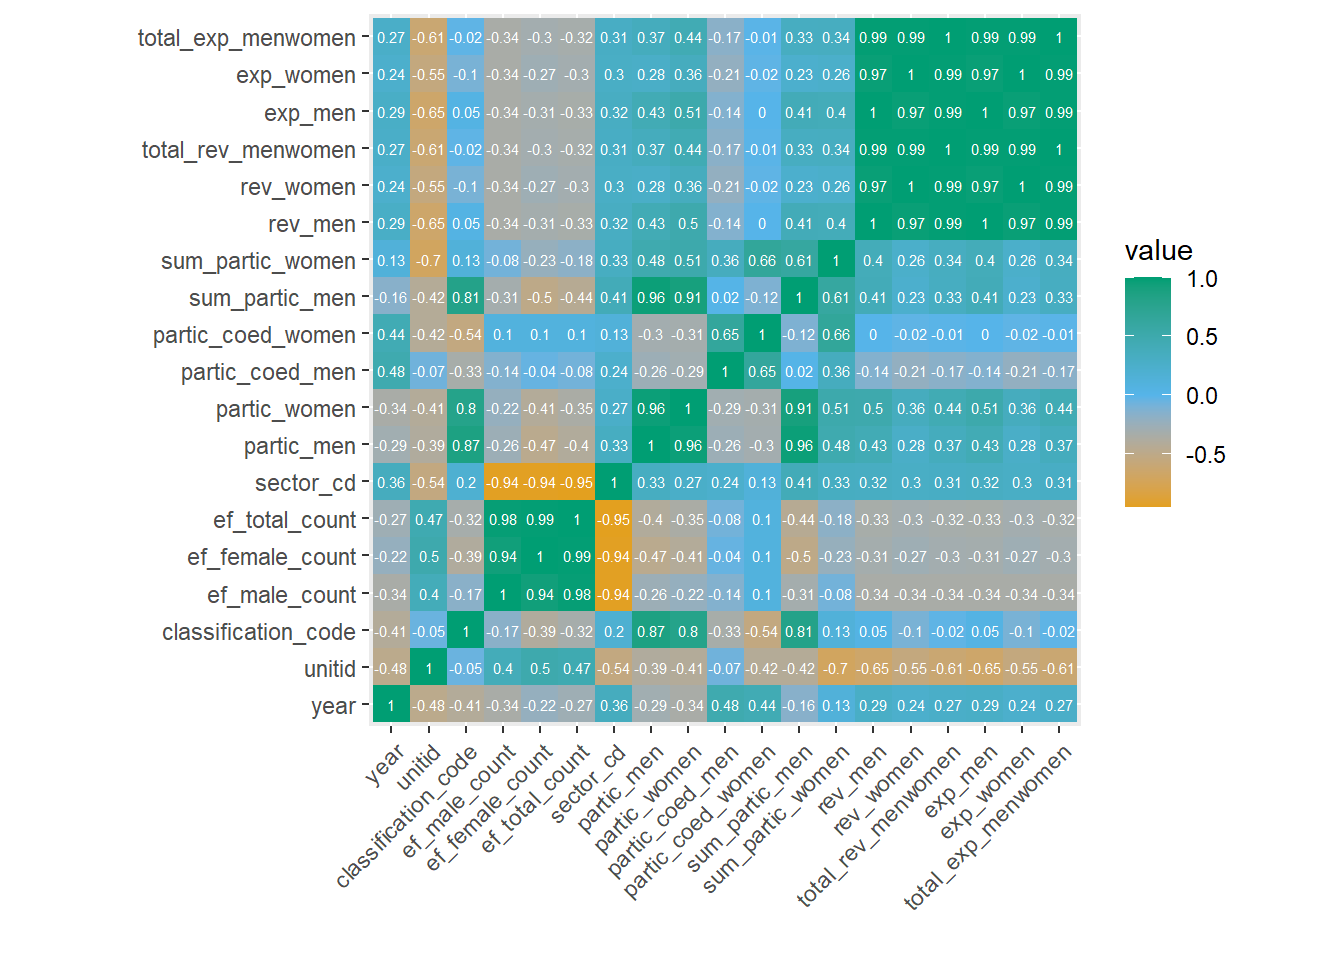
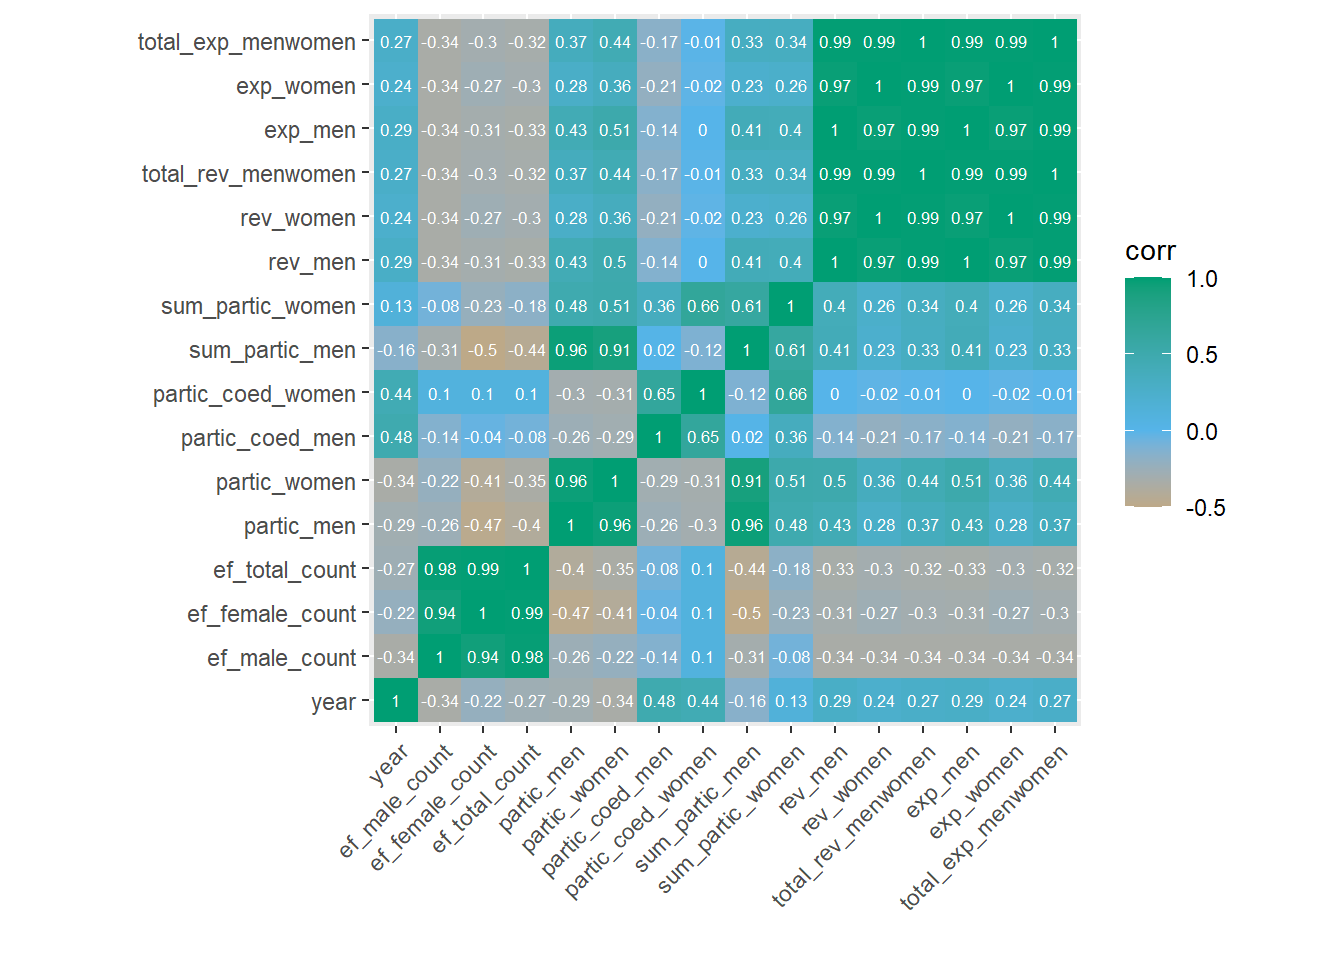
pca post

diff --git a/content/post/2022-03-30-principal-components-analysis-collegiate-sports/index.html b/content/post/2022-03-30-principal-components-analysis-collegiate-sports/index.html
@@ -1,5 +1,5 @@
 ---
-title: 'Principal Components Analysis in R: Collegiate Sports'
+title: 'Principal Components Analysis in R: College Sports'
 author: Noelle Pablo
 date: '2022-03-30'
 slug: principal-components-analysis-collegiate-sports
@@ -8,20 +8,21 @@ tags:
   - pca
   - dimension reduction
   - principal components analysis
-  - collegiate sports
+  - college sports
 ---
 
 <script src="{{< blogdown/postref >}}index_files/header-attrs/header-attrs.js"></script>
 
 
-<p>testing 1 2 3</p>
+<p>Last fall, I took a multivariate statistics course at the University of Kansas as part of the Applied Statistics, Analytics, and Data Science graduate program. One of the topics covered in the course was principal components analysis (PCA). PCA is commonly used when 1. there are a large number of numerical variables in a data set, and 2. the variables are strongly correlated with each other. After conducting a PCA, the correlated variables can be replaced by a smaller number of uncorrelated variables, known as the principal components. Each principal component is a linear combination of the original variables that represents most of the information, or variability, found in the original variables.</p>
+<p>For this demonstration, I am using a data set on college sports provided by the <a href="https://github.com/rfordatascience/tidytuesday/blob/master/data/2022/2022-03-29/readme.md">TidyTuesday data project</a>. This data set contains several variables on athletic participation, staffing, and finances by college, sport, and team gender. Since the numeric variables are on different scales, e.g., <code>rev_women</code> is in dollars, while <code>partic_women</code> is counts of women, they will inevitably have different variances. To account for the different variances, we will perform a PCA on the correlation matrix which uses the standardized data, as opposed to the covariance matrix which uses the non-standardized data.</p>
+<p>Let’s create a correlation heatmap using ggplot2 to visualize the correlations between the numerical variables. Figure 1 displays the Pearson correlation coefficient between all numerical variables in the college sports data set in a heatmap.</p>
 <pre class="r"><code>tuesdata &lt;-
-  tidytuesdayR::tt_load(&#39;2022-03-29&#39;)</code></pre>
-<pre><code>## 
-##  Downloading file 1 of 1: `sports.csv`</code></pre>
-<pre class="r"><code>sports &lt;- tuesdata$sports %&gt;%
+  tidytuesdayR::tt_load(&#39;2022-03-29&#39;)
+
+sports &lt;- tuesdata$sports %&gt;%
   select_if(is.numeric) %&gt;%
-  select(-sportscode)
+  select(-c(contains(&quot;code&quot;), unitid, sector_cd))
 
 sports_corr &lt;- round(cor(sports, use = &quot;complete.obs&quot;), 2) %&gt;%
   reshape2::melt()
@@ -29,12 +30,72 @@ sports_corr &lt;- round(cor(sports, use = &quot;complete.obs&quot;), 2) %&gt;%
 sports_corr %&gt;%
   ggplot(aes(Var1, Var2, fill = value)) +
   geom_tile() +
-  geom_text(aes(label = value), color = &quot;white&quot;, size = 2) +
+  geom_text(aes(label = value), color = &quot;white&quot;, size = 2.2) +
   coord_fixed() +
   scale_fill_gradient2(low = &quot;#E69F00&quot;,
                        mid = &quot;#56B4E9&quot;,
                        high = &quot;#009E73&quot;) +
   theme(axis.text.x = element_text(angle = 45,
                                    hjust = 1)) +
-  labs(x = &quot;&quot;, y = &quot;&quot;)</code></pre>
-<p><img src="{{< blogdown/postref >}}index_files/figure-html/unnamed-chunk-2-1.png" width="672" /></p>
+  labs(x = &quot;&quot;, y = &quot;&quot;,
+       fill = &quot;corr&quot;)</code></pre>
+<div class="figure"><span style="display:block;" id="fig:unnamed-chunk-2"></span>
+<img src="{{< blogdown/postref >}}index_files/figure-html/unnamed-chunk-2-1.png" alt="College sports data correlation heatmap" width="672" />
+<p class="caption">
+Figure 1: College sports data correlation heatmap
+</p>
+</div>
+<p>From the heatmap, we can see strong linear correlations between several variables, such as: total number of female students (<code>ef_female_count</code>) and total number of male students (<code>ef_male_count)</code> (r = 0.94), number of women participants (<code>partic_women</code>) and number of male participants (<code>partic_male</code>) (r = 0.96), and revenue in USD for men (<code>rev_men</code>) and revenue in USD for women (<code>rev_women</code>) (r = 0.97). Pairs of variables with a correlation of nearly 1 are those that are used to calculate each other, for example, <code>total_rev_menwomen</code> is the sum of <code>rev_men</code> and <code>rev_women</code>. Let’s remove these redundant variables, remake our correlation matrix, and proceed to the next step.</p>
+<pre class="r"><code>sports_data &lt;- 
+  sports %&gt;%
+  select(-contains(&quot;total&quot;), -contains(&quot;sum&quot;))
+
+sports_data_corr &lt;- round(cor(sports_data, use = &quot;complete.obs&quot;), 2) %&gt;%
+  reshape2::melt()</code></pre>
+<p>We can use the <code>prcomp()</code> function with the <code>scale.</code> argument set to <code>TRUE</code> to run our PCA on the normalized data. We can also use the <code>na.omit()</code> function to remove missing values. Due to the large amount of missing values in this data set, we are left with 16 complete observations.</p>
+<p>The first four principal components account for 93.5% of the total variability in the original variables, in other words, we can explain most of the variability in the data using four principal components, rather than the original 13 variables.</p>
+<pre class="r"><code>sports_pc &lt;- prcomp(na.omit(sports_data), scale. = TRUE)
+summary(sports_pc)</code></pre>
+<pre><code>## Importance of components:
+##                           PC1    PC2    PC3     PC4     PC5    PC6     PC7
+## Standard deviation     2.2227 1.5959 1.3281 1.01933 0.60966 0.5410 0.17617
+## Proportion of Variance 0.4491 0.2315 0.1603 0.09446 0.03379 0.0266 0.00282
+## Cumulative Proportion  0.4491 0.6806 0.8410 0.93544 0.96923 0.9958 0.99865
+##                            PC8     PC9    PC10      PC11
+## Standard deviation     0.11813 0.02903 0.00206 0.0007071
+## Proportion of Variance 0.00127 0.00008 0.00000 0.0000000
+## Cumulative Proportion  0.99992 1.00000 1.00000 1.0000000</code></pre>
+<p>As a reminder, the principal components are linear combinations of the original variables that aim to contain most of the information and variability present in the original variables. The <code>prcomp()</code> function also saves the weights given to each variable within each component in the <code>rotation</code> element of the <code>prcomp()</code> output. We can see that the largest positive weights in the first principal component are for the revenue and expenditure variables. In the second principal component, the largest negative weight is for year, followed by the coed participation variables. These weights are then used to calculate principal component scores.</p>
+<pre class="r"><code>sports_pc$rotation[, 1:4]</code></pre>
+<pre><code>##                           PC1         PC2         PC3         PC4
+## year               0.08046550 -0.52461564  0.09271418 -0.12001052
+## ef_male_count     -0.24314197  0.13690902 -0.54595277  0.32460550
+## ef_female_count   -0.25016590  0.02608413 -0.59768741  0.15966536
+## partic_men         0.27528119  0.34598572  0.22519978  0.43011892
+## partic_women       0.29553703  0.35072278  0.14609532  0.43437032
+## partic_coed_men   -0.10270443 -0.44259190  0.24378571  0.42958896
+## partic_coed_women -0.06919406 -0.46034026 -0.02641298  0.51493408
+## rev_men            0.42553268 -0.10892997 -0.19470486  0.05995430
+## rev_women          0.40685332 -0.12511926 -0.25329927 -0.11009306
+## exp_men            0.42558205 -0.10843060 -0.19470472  0.05983943
+## exp_women          0.40698729 -0.12475127 -0.25286576 -0.10980126</code></pre>
+<p>The principal component scores are saved in the <code>x</code> element of the <code>prcomp()</code> output. High scores on the first principal component indicate that the revenue and expenditures of that college sport are high. High scores on the second principal component indicate that the year is further in the past and that coed participation is low.</p>
+<pre class="r"><code>sports_pc$x[, 1:5]</code></pre>
+<pre><code>##              PC1        PC2         PC3         PC4         PC5
+##  [1,]  0.6299691  2.7610736  0.78941093  0.86377070 -0.80327950
+##  [2,]  0.8820529  2.2771150  0.78977817  0.71723087 -0.26344705
+##  [3,] -3.1135609  1.4213659 -2.75558053  0.40061779  0.08469101
+##  [4,]  0.8959289  1.7376713  0.89874487  0.42684134  0.21123035
+##  [5,]  1.9306728 -0.2859732 -0.70887921 -1.25939102 -1.17153081
+##  [6,] -1.7094386 -0.1181410  0.89276872 -0.96397899 -0.66492109
+##  [7,] -2.7431012  0.8567710 -2.36512376  0.09115136  0.47800488
+##  [8,]  0.9809652  1.0637934  0.78367389  0.03255717  0.62390624
+##  [9,] -1.5544257 -0.6958294  1.23024817 -0.92098308 -0.24150926
+## [10,]  6.2495058 -0.8904998 -1.67719480  0.15392365  0.25418866
+## [11,] -1.2379055 -3.1809537  0.45968955  2.58756770 -0.63035370
+## [12,] -1.5550160 -0.6634227  0.51784857 -1.05954324  0.17437135
+## [13,] -0.2122136 -0.7192470  0.78114954 -1.46269840  0.45706539
+## [14,]  1.0836685 -1.3051982 -1.23241388 -0.43238132  0.07186507
+## [15,]  0.2436582 -0.1845523  1.53686975  0.63695381  1.25933766
+## [16,] -0.7707599 -2.0739730  0.05901003  0.18836166  0.16038077</code></pre>
+<p>If our goal is to reduce the number of predictors in the data, we can use the first 5 columns of principal component scores as our transformed predictors. However, it is important to keep in mind that PCA only focuses the linear relationships between the original variables, and any information in nonlinear relationships is not captured.</p>
